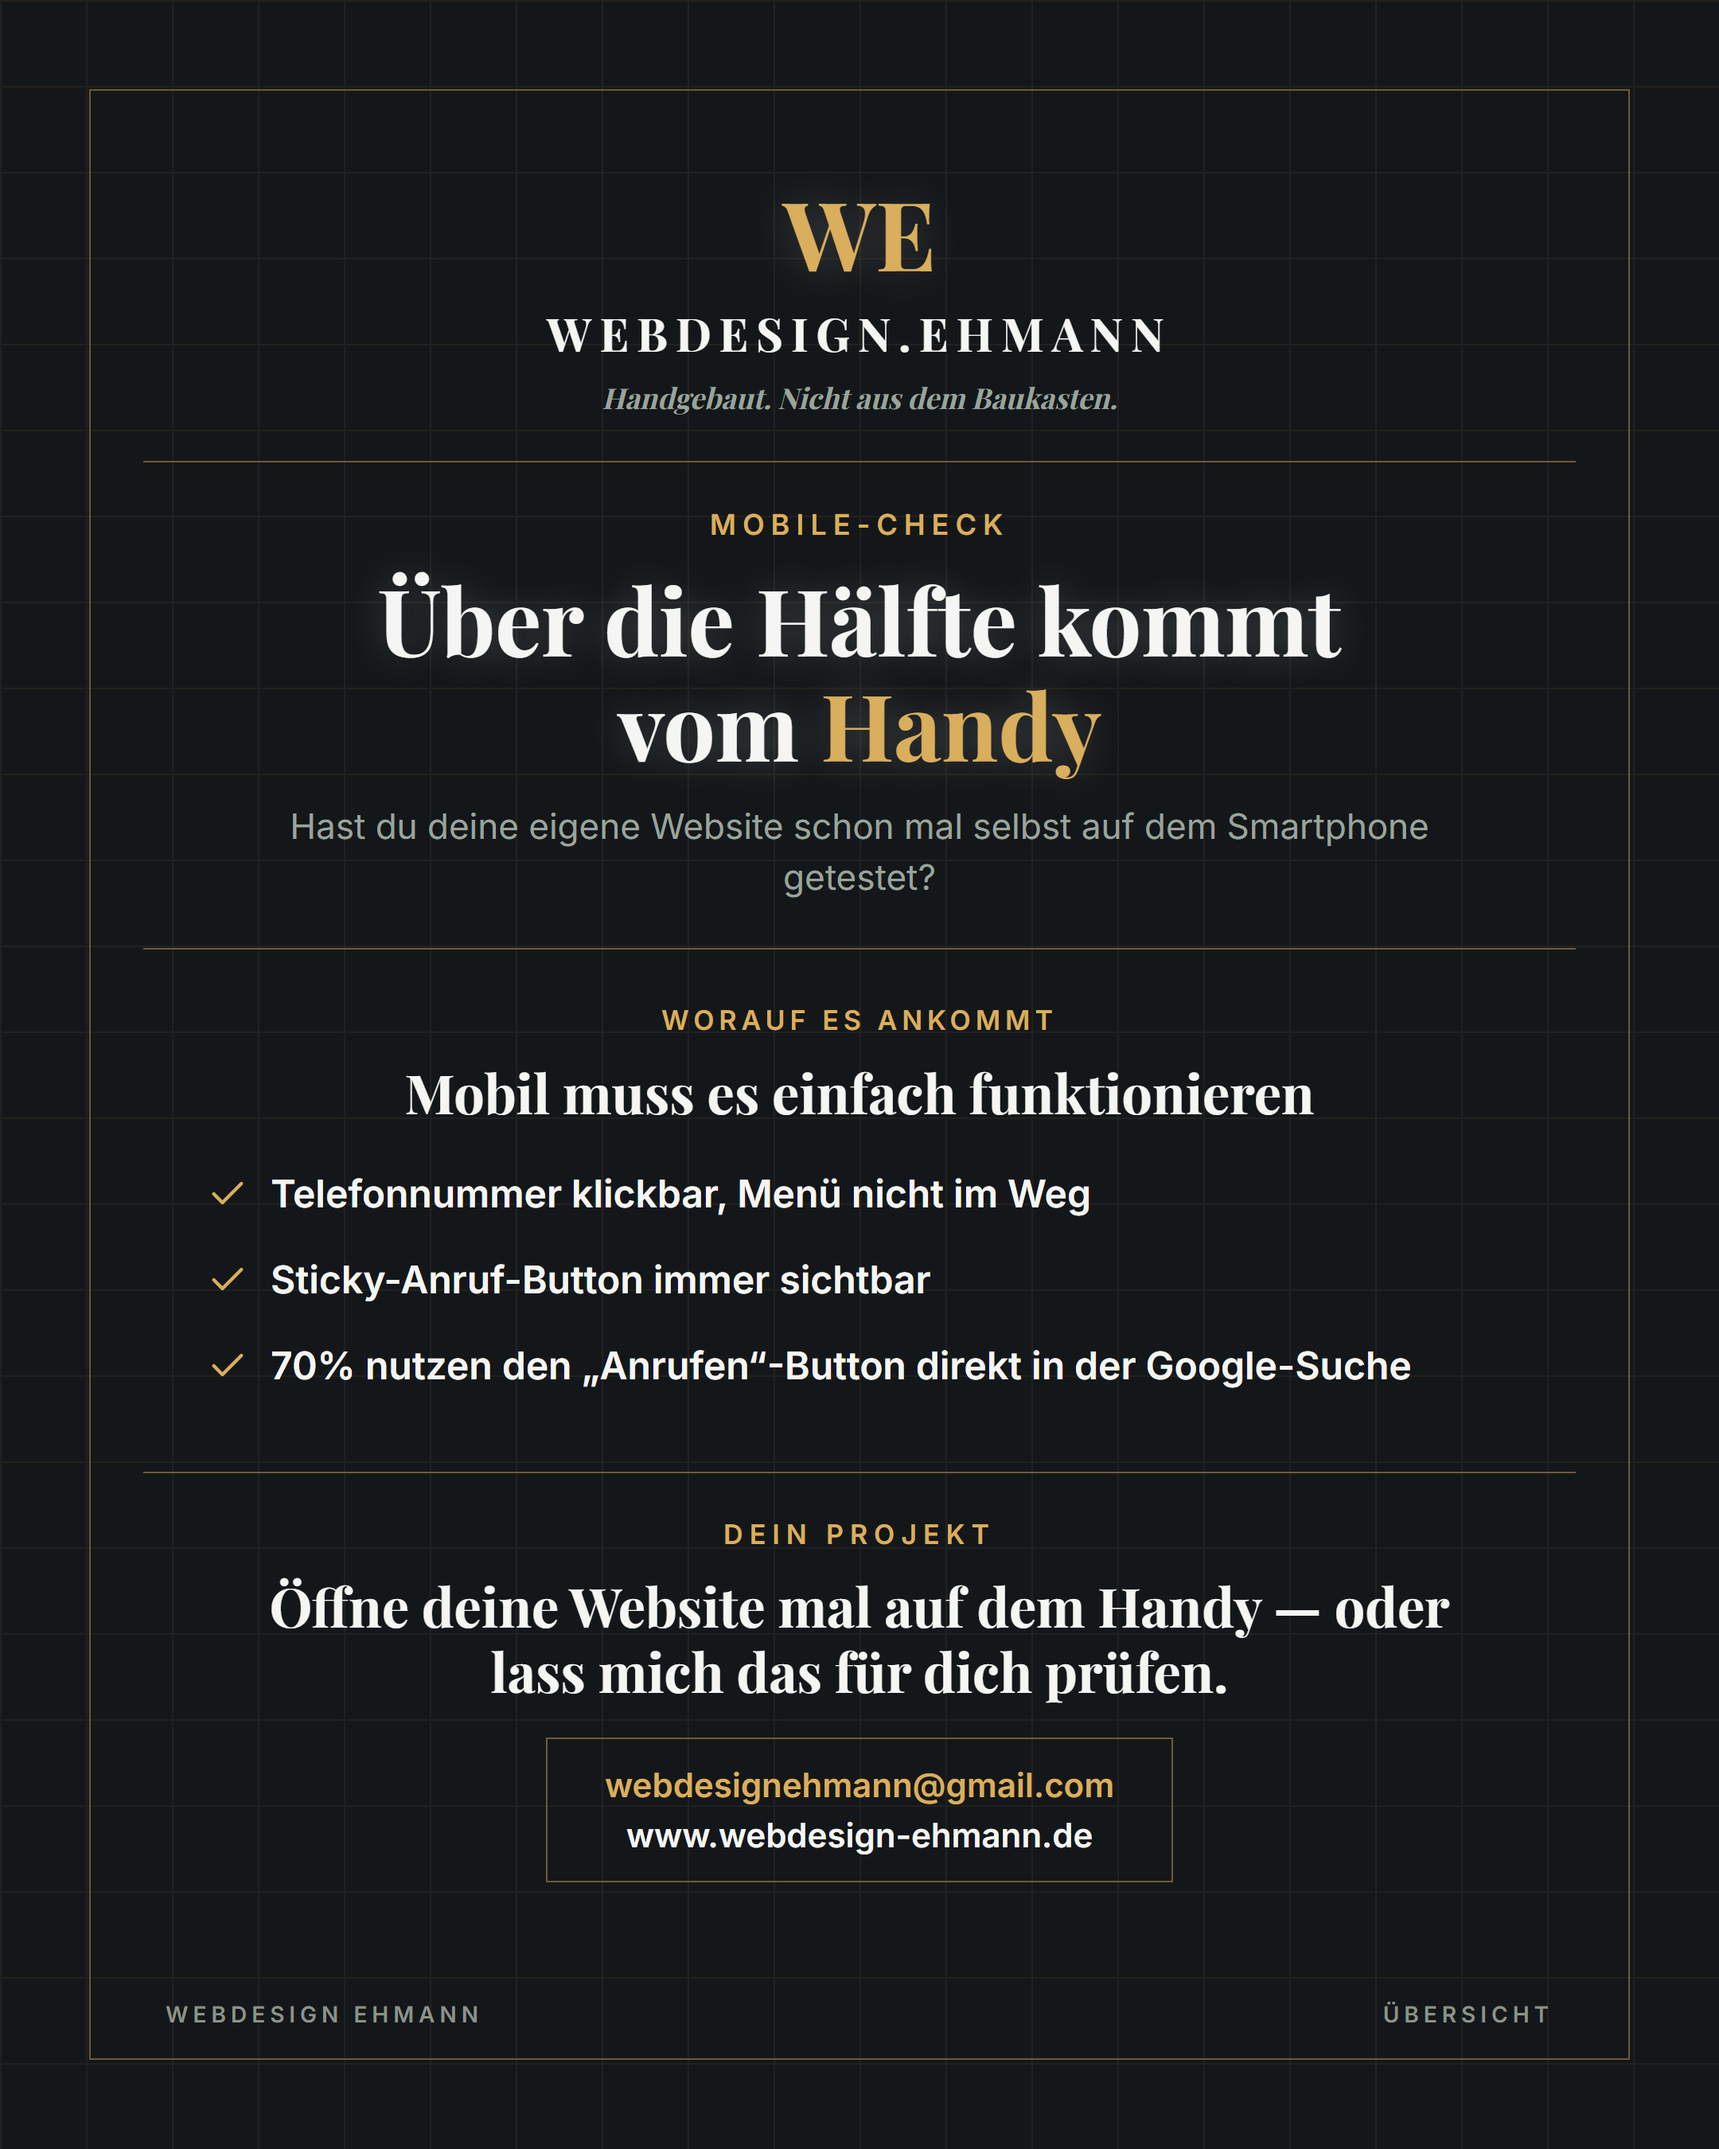
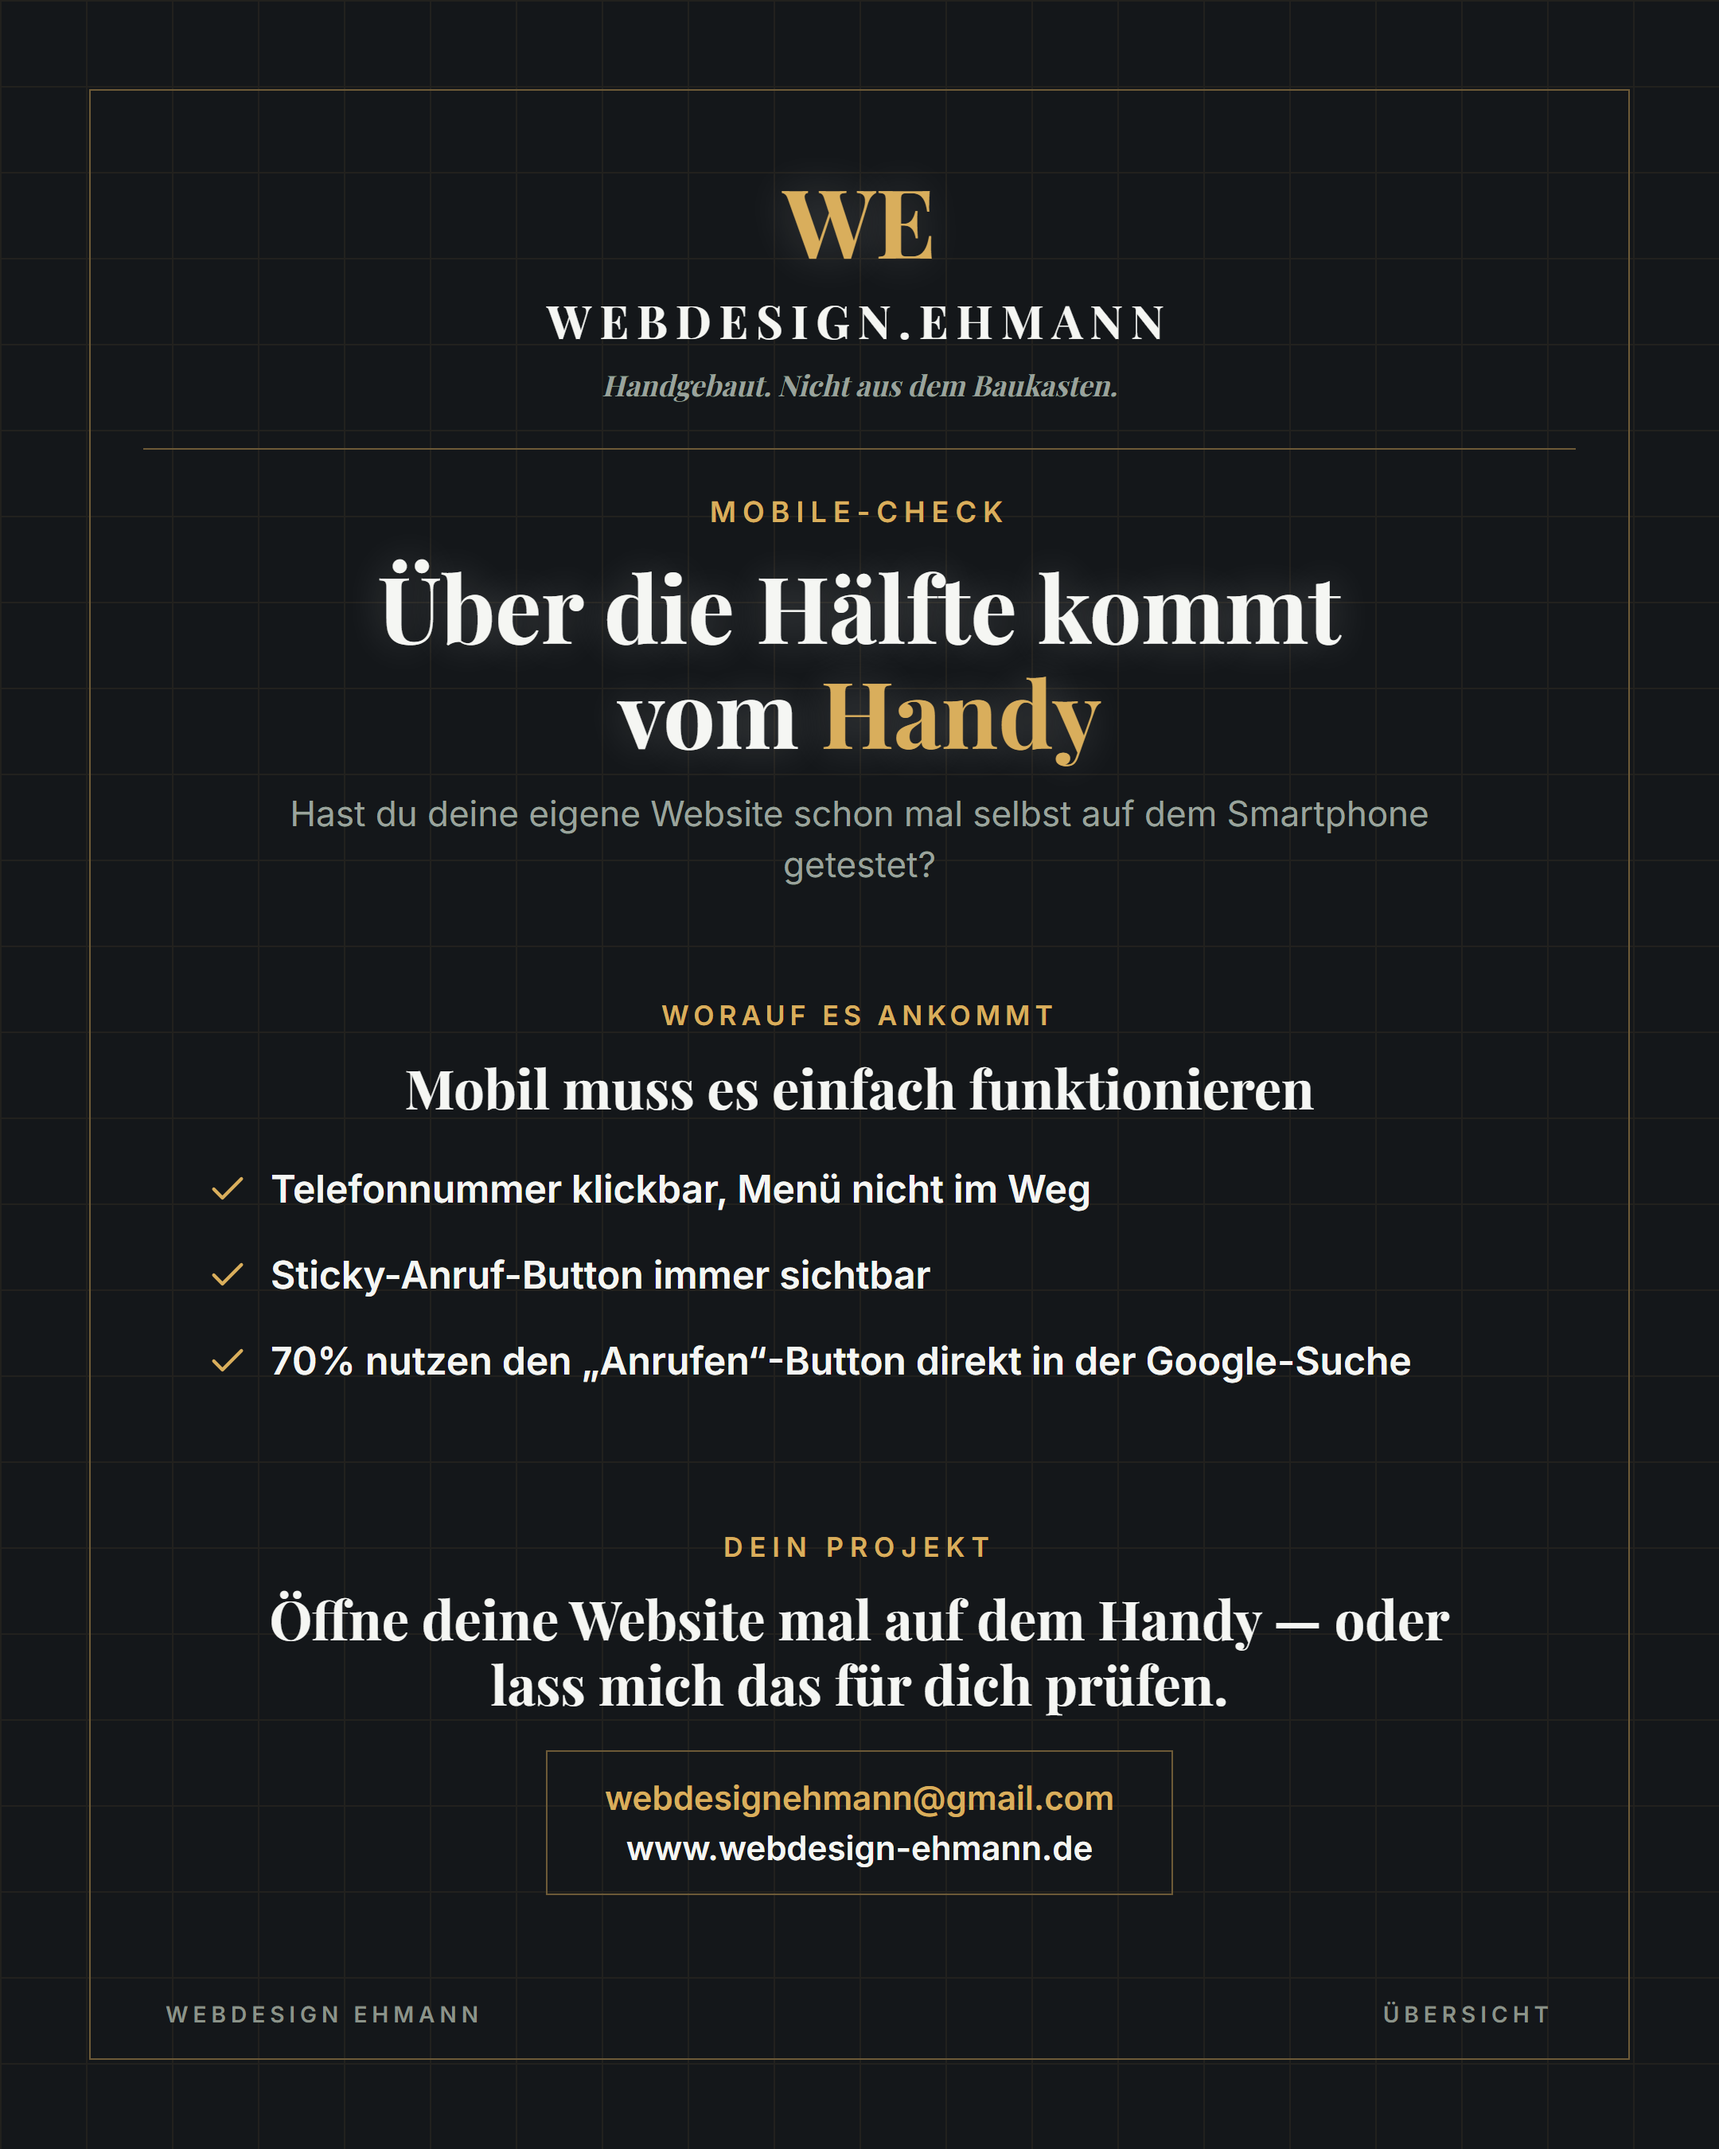
Instagram-Uebersicht-Slides aufgeraeumt: nur noch eine Trennlinie
Statt drei Trennlinien pro Slide (nach Header, nach Hook, nach Checkliste)
jetzt nur noch eine unter dem Header - Abschnitte darunter trennen sich
per Abstand und den Gold-Kickern, wirkt uebersichtlicher.
Betrifft nur die noch nicht geposteten Kampagnen; Warum-Website-2026 ist
bereits gepostet und aus der Generator-Liste raus.

Changed region(s): [[0.1551, 0.0933, 0.8375, 0.4356], [0.1551, 0.4667, 0.8375, 0.6533], [0.1551, 0.6844, 0.8375, 0.8711]]

diff --git a/assets/marketing/instagram-posts/_build/overview-generic.js b/assets/marketing/instagram-posts/_build/overview-generic.js
@@ -95,9 +95,9 @@ html, body { width:${WIDTH}px; height:${HEIGHT}px; overflow:hidden; background:$
 .headline { font-family:'Playfair Display',serif; font-weight:700; line-height:1.14; color:${t.headline}; text-shadow:0 0 26px ${t.glow}; margin-top:15px; }
 .headline .accent { color:${t.accent}; }
 .hook-subtext { font-family:'Inter',sans-serif; font-weight:400; font-size:22px; line-height:1.45; color:${t.subtext}; max-width:760px; margin:16px auto 0; }
-.points-kicker { font-family:'Inter',sans-serif; font-weight:600; font-size:17px; letter-spacing:3px; text-transform:uppercase; color:${t.kicker}; margin-top:6px; }
+.points-kicker { font-family:'Inter',sans-serif; font-weight:600; font-size:17px; letter-spacing:3px; text-transform:uppercase; color:${t.kicker}; margin-top:68px; }
 .points-headline { font-family:'Playfair Display',serif; font-weight:700; font-size:34px; color:${t.headline}; margin-top:12px; margin-bottom:26px; }
-.cta-kicker { font-family:'Inter',sans-serif; font-weight:600; font-size:17px; letter-spacing:4px; text-transform:uppercase; color:${t.kicker}; }
+.cta-kicker { font-family:'Inter',sans-serif; font-weight:600; font-size:17px; letter-spacing:4px; text-transform:uppercase; color:${t.kicker}; margin-top:68px; }
 .cta-headline { font-family:'Playfair Display',serif; font-weight:700; font-size:34px; line-height:1.2; color:${t.headline}; margin-top:14px; max-width:800px; }
 .contact-box { border:1px solid ${t.border}; padding:16px 36px; margin-top:22px; flex-shrink:0; }
 .contact-box a, .contact-box span { display:block; font-family:'Inter',sans-serif; font-weight:600; font-size:21px; text-align:center; }
@@ -119,13 +119,10 @@ html, body { width:${WIDTH}px; height:${HEIGHT}px; overflow:hidden; background:$
       <h1 class="headline" style="font-size:${size}px;">${toHtml(p.headline)}</h1>
       <p class="hook-subtext">${p.subtext}</p>
 
-      <div class="rule"></div>
-
       <div class="points-kicker">${p.pointsKicker}</div>
       <div class="points-headline">${p.pointsHeadline}</div>
       ${pointsList(p.points)}
 
-      <div class="rule"></div>
       <div class="cta-kicker">DEIN PROJEKT</div>
       <div class="cta-headline">${p.ctaHeadline}</div>
       <div class="contact-box">
@@ -217,22 +214,6 @@ const OVERVIEWS = [
       "70% nutzen den „Anrufen“-Button direkt in der Google-Suche",
     ],
     ctaHeadline: "Öffne deine Website mal auf dem Handy — oder lass mich das für dich prüfen.",
-  },
-  {
-    slug: "warum-website-2026",
-    folder: "Warum Website 2026",
-    outFile: "warum-website-2026-uebersicht.png",
-    kicker: "WARUM JETZT",
-    headline: ["Kein <span class=\"accent\">Nice-to-have</span>", "mehr"],
-    subtext: "2026 informieren sich Kunden zuerst online — vor dem ersten Anruf.",
-    pointsKicker: "DIE FAKTEN",
-    pointsHeadline: "Warum jetzt zählt",
-    points: [
-      "76% informieren sich online, bevor sie kontaktieren",
-      "Ohne Website fehlst du am ersten Kontaktpunkt",
-      "24/7 erreichbar — auch wenn du geschlossen hast",
-    ],
-    ctaHeadline: "Lieber heute als nächstes Jahr — lass uns unverbindlich über deinen Betrieb sprechen.",
   },
   {
     slug: "nach-dem-livegang",
